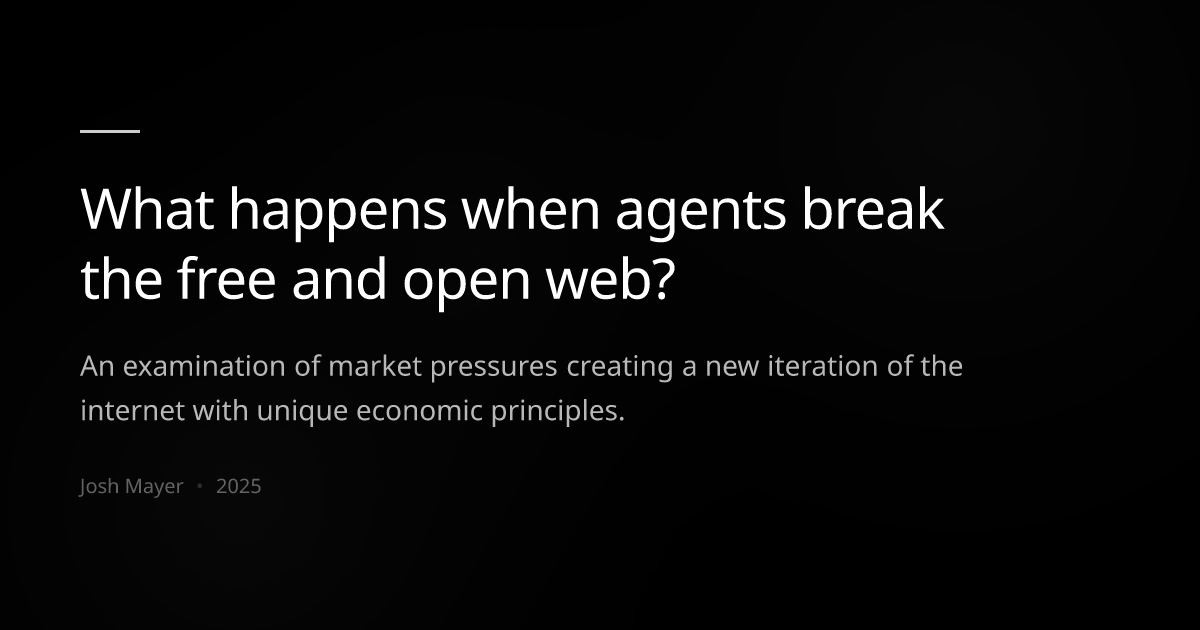
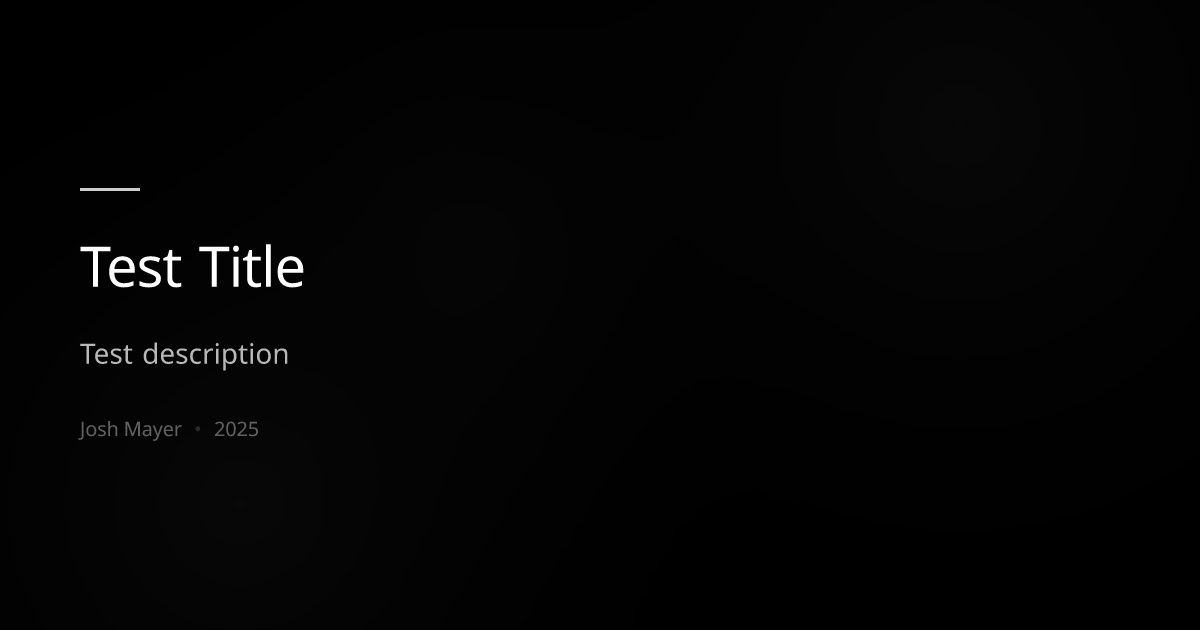
new og image

diff --git a/app/posts/[...slug]/page.tsx b/app/posts/[...slug]/page.tsx
@@ -33,11 +33,13 @@ export async function generateMetadata({
 
   const baseUrl = process.env.NEXT_PUBLIC_SITE_URL || "http://localhost:3000";
 
-  // Create dynamic OG image URL with post content
-  const ogImageUrl = new URL("/api/og", baseUrl);
-  ogImageUrl.searchParams.set("title", post.title);
-  if (post.description) {
-    ogImageUrl.searchParams.set("description", post.description);
+  // Check if post has a custom OG image
+  const ogImage = (post as any).ogImage;
+
+  let ogImageUrl: string | undefined;
+  if (ogImage) {
+    // Use custom OG image
+    ogImageUrl = new URL(ogImage, baseUrl).toString();
   }
 
   const metadata: Metadata = {
@@ -46,20 +48,22 @@ export async function generateMetadata({
     openGraph: {
       title: post.title,
       description: post.description,
-      images: [
-        {
-          url: ogImageUrl.toString(),
-          width: 1200,
-          height: 630,
-          alt: post.title,
-        },
-      ],
+      ...(ogImageUrl && {
+        images: [
+          {
+            url: ogImageUrl,
+            width: 1200,
+            height: 630,
+            alt: post.title,
+          },
+        ],
+      }),
     },
     twitter: {
       card: "summary_large_image",
       title: post.title,
       description: post.description,
-      images: [ogImageUrl.toString()],
+      ...(ogImageUrl && { images: [ogImageUrl] }),
     },
   };
 

diff --git a/contentlayer.config.js b/contentlayer.config.js
@@ -44,6 +44,9 @@ export const Post = defineDocumentType(() => ({
       type: "date",
       required: true,
     },
+    ogImage: {
+      type: "string",
+    },
   },
   computedFields,
 }));
@@ -63,6 +66,9 @@ export const Drafts = defineDocumentType(() => ({
     date: {
       type: "date",
       required: true,
+    },
+    ogImage: {
+      type: "string",
     },
   },
   computedFields,
